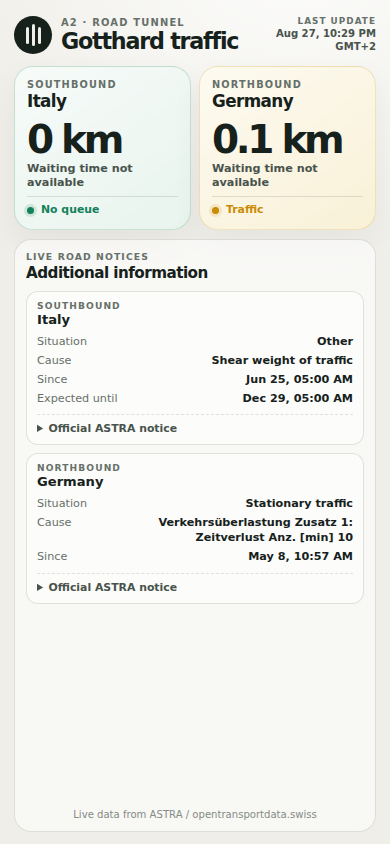
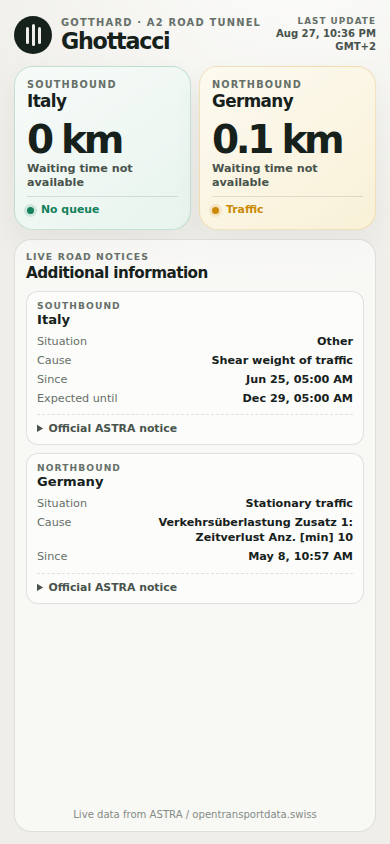
Rename app to Ghottacci

Changed region(s): [[0.1538, 0.0, 0.6462, 0.0616], [0.8923, 0.0308, 0.9231, 0.0616]]

diff --git a/src/App.tsx b/src/App.tsx
@@ -337,8 +337,8 @@ export default function App() {
         <div className="header-identity">
           <div className="brand-mark" aria-hidden="true"><span /></div>
           <div>
-            <p className="site-kicker">A2 · Road tunnel</p>
-            <h1>Gotthard traffic</h1>
+            <p className="site-kicker">Gotthard · A2 road tunnel</p>
+            <h1>Ghottacci</h1>
           </div>
         </div>
         <div className="header-update">

diff --git a/index.html b/index.html
@@ -5,7 +5,7 @@
     <meta name="viewport" content="width=device-width, initial-scale=1.0" />
     <meta name="theme-color" content="#f2f1eb" />
     <meta name="description" content="Live traffic queues at the Gotthard road tunnel." />
-    <title>Gotthard traffic</title>
+    <title>Ghottacci — Gotthard traffic</title>
   </head>
   <body>
     <div id="root"></div>

diff --git a/server/index.ts b/server/index.ts
@@ -116,5 +116,5 @@ app.use(express.static(distDir));
 app.get('*path', (_request, response) => response.sendFile(path.join(distDir, 'index.html')));
 
 app.listen(port, host, () => {
-  console.log(`Gotthard traffic server listening on http://${host}:${port}`);
+  console.log(`Ghottacci server listening on http://${host}:${port}`);
 });

diff --git a/README.md b/README.md
@@ -1,9 +1,9 @@
-# Gotthard traffic
+# Ghottacci
 
-A tiny, mobile-first status page for queues at the Gotthard road tunnel. The React frontend only talks to the local Express proxy. A token configured in `.env` never reaches the browser; a token entered in the app stays in that browser tab.
+A tiny, mobile-first status page for queues at the Gotthard road tunnel. The name is a Roman-flavoured Gotthard / “mortacci tua” mash-up. The React frontend only talks to the local Express proxy. A token configured in `.env` never reaches the browser; a token entered in the app stays in that browser tab.
 
 <p align="center">
-  <img src="docs/gotthard-traffic-mobile.png" width="390" alt="Gotthard traffic mobile interface showing live northbound and southbound tunnel conditions" />
+  <img src="docs/gotthard-traffic-mobile.png" width="390" alt="Ghottacci mobile interface showing live northbound and southbound Gotthard tunnel conditions" />
 </p>
 
 ## Local development
